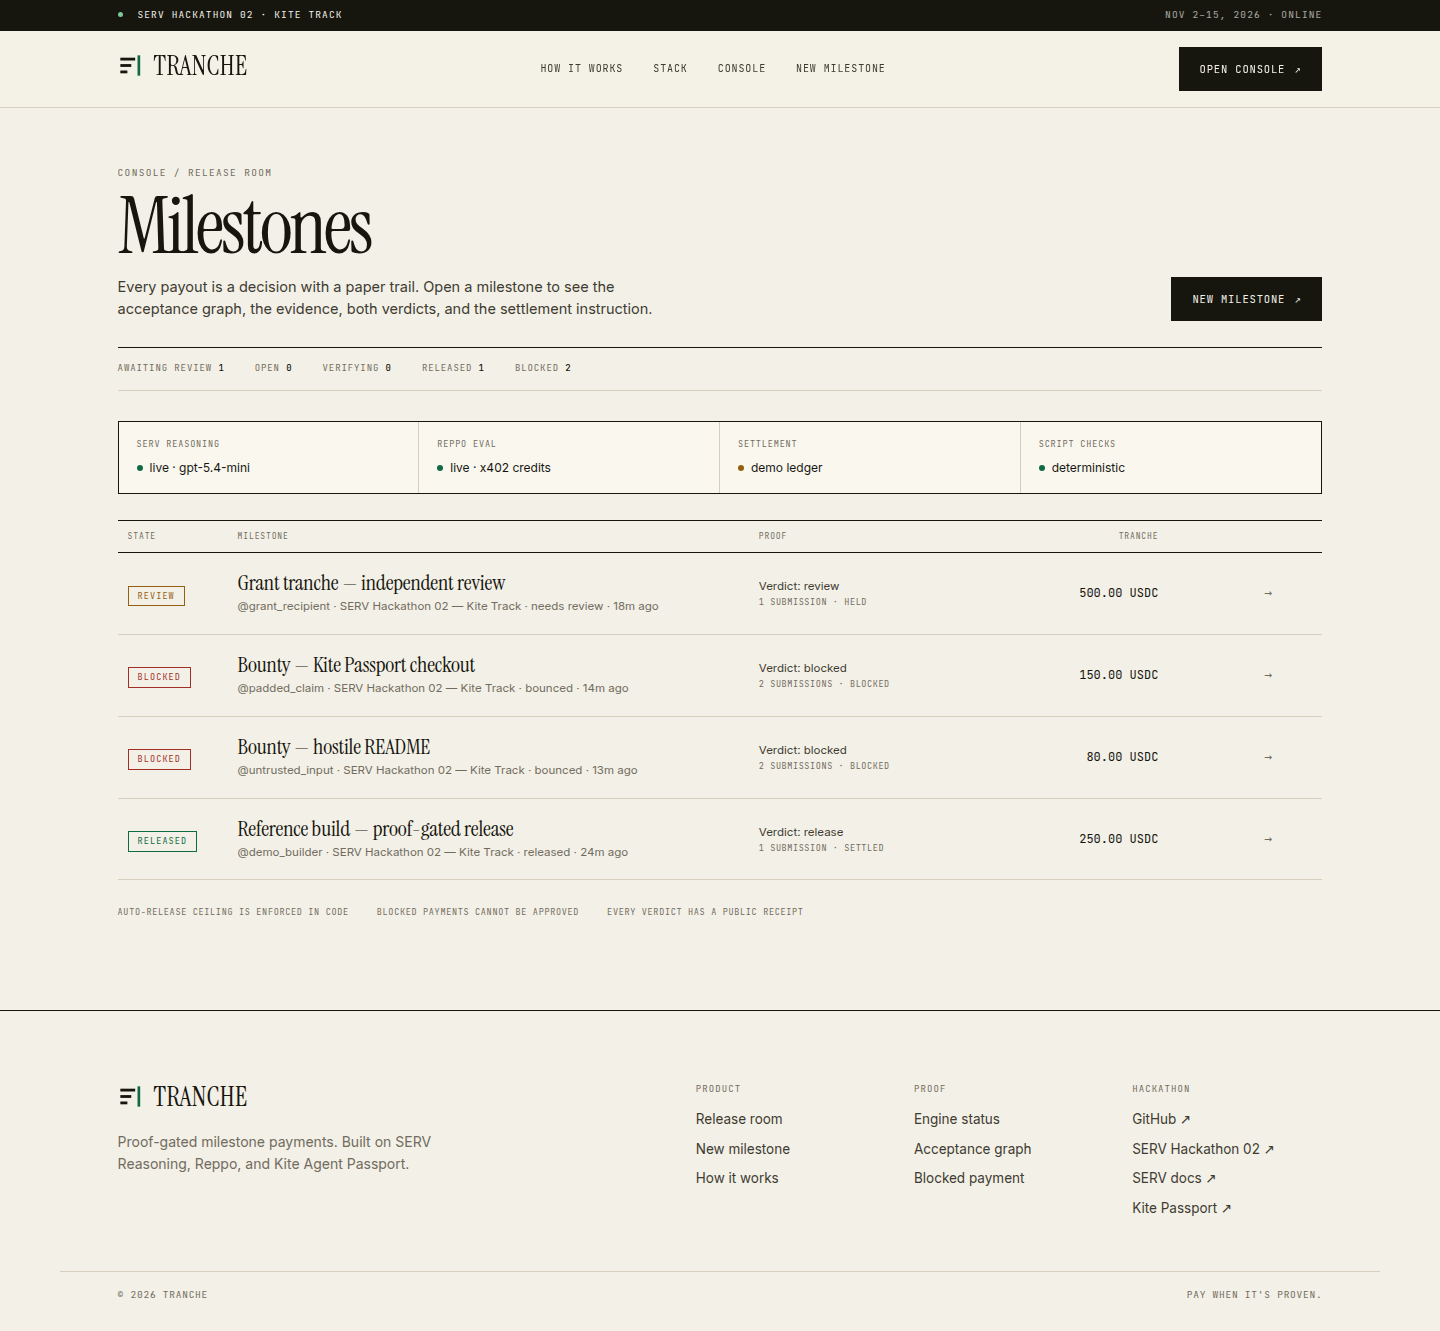
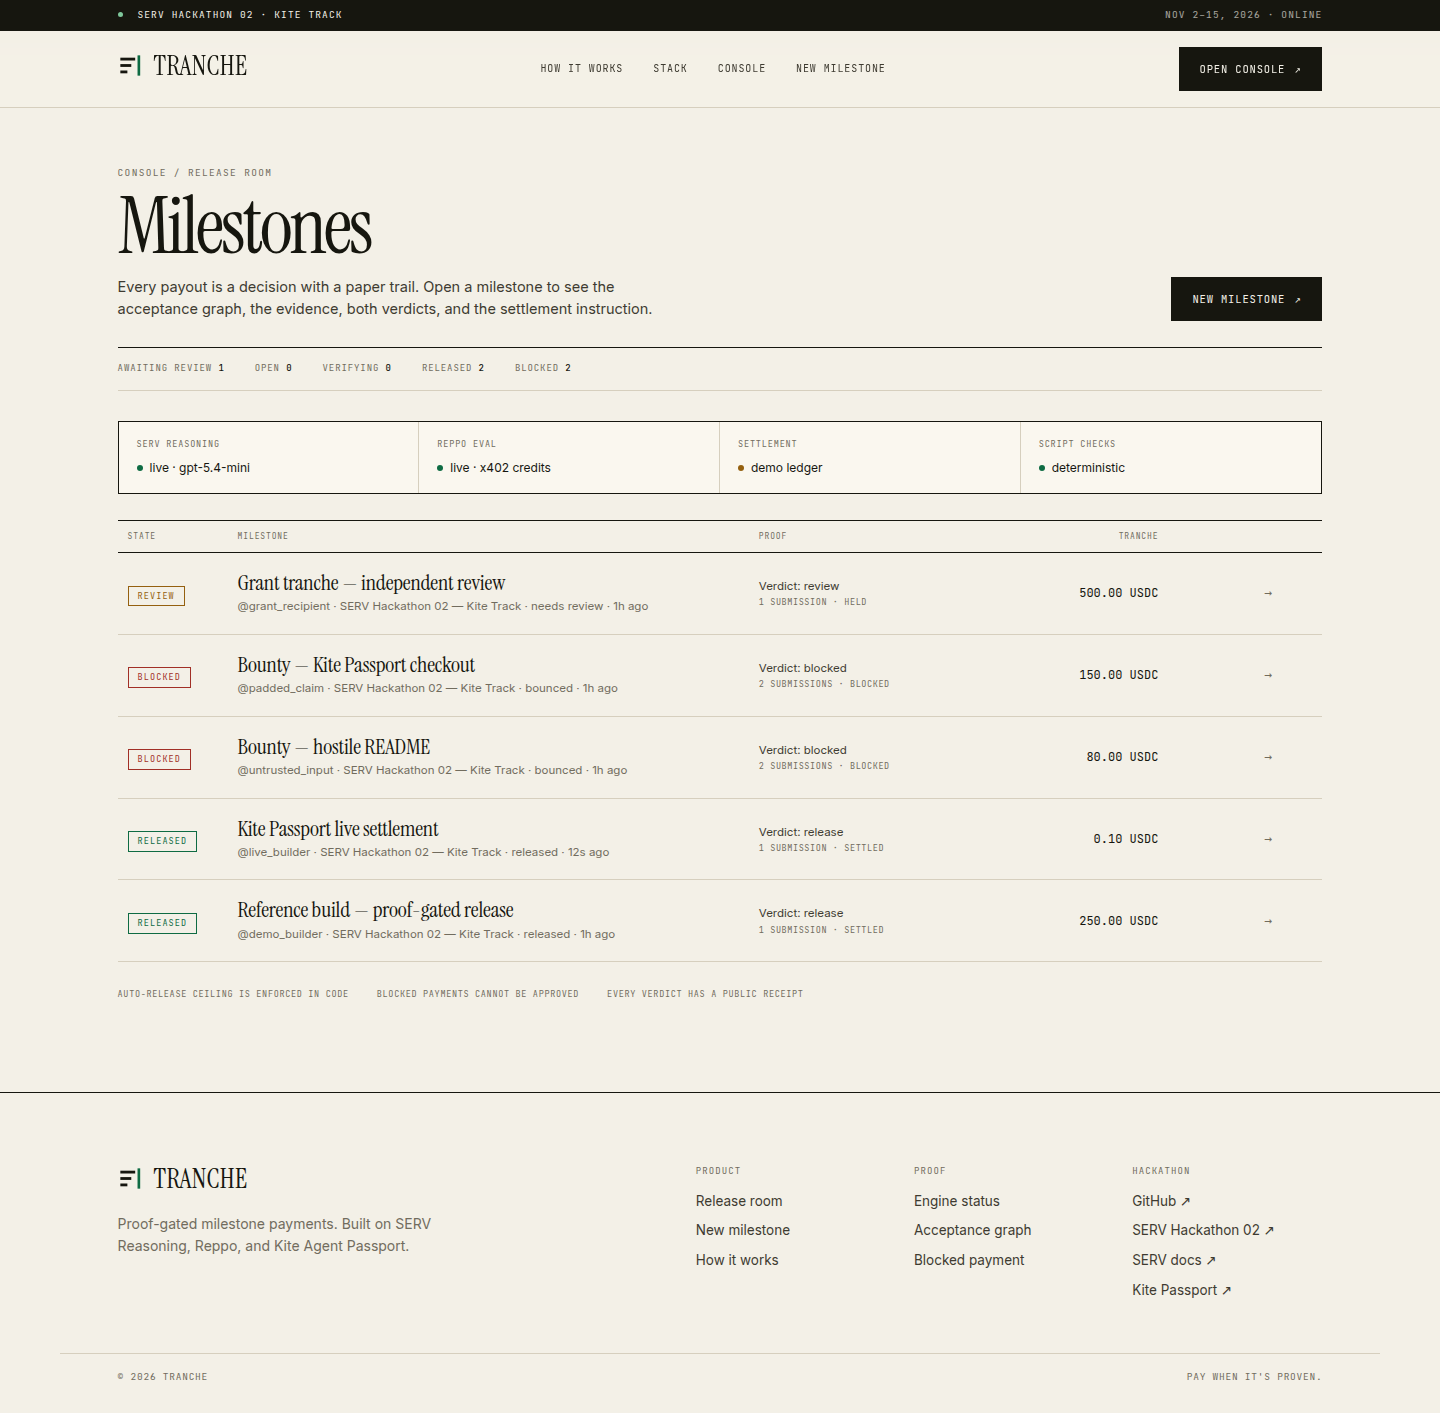
Show the historical payment rail on milestone pages; idempotent status polling

diff --git a/frontend/components/EngineStrip.tsx b/frontend/components/EngineStrip.tsx
@@ -10,7 +10,7 @@ function Dot({ tone }: { tone: Dot }) {
   return <span className={`dot dot-${tone}`} aria-hidden="true" />;
 }
 
-export function EngineStrip() {
+export function EngineStrip({ paymentRail }: { paymentRail?: string }) {
   const [health, setHealth] = useState<HealthResponse | null>(null);
   const [failed, setFailed] = useState(false);
 
@@ -29,6 +29,7 @@ export function EngineStrip() {
   }, []);
 
   const engines = health?.engines;
+  const rail = paymentRail ?? engines?.payment_rail;
 
   return (
     <div className="engine-strip" aria-live="polite">
@@ -74,7 +75,7 @@ export function EngineStrip() {
               failed
                 ? "off"
                 : engines
-                  ? engines.payment_rail === "kite_passport"
+                  ? rail === "kite_passport"
                     ? "live"
                     : "warn"
                   : "warn"
@@ -83,7 +84,7 @@ export function EngineStrip() {
           {failed
             ? "API offline"
             : engines
-              ? engines.payment_rail === "kite_passport"
+              ? rail === "kite_passport"
                 ? "Kite Passport"
                 : "demo ledger"
               : "checking"}

diff --git a/frontend/app/milestone/page.tsx b/frontend/app/milestone/page.tsx
@@ -798,7 +798,7 @@ function MilestoneInner() {
         </div>
 
         <div style={{ marginTop: "24px" }}>
-          <EngineStrip />
+          <EngineStrip paymentRail={detail?.engines.payment_rail} />
         </div>
       </div>
     </div>

diff --git a/backend/src/api.rs b/backend/src/api.rs
@@ -834,6 +834,7 @@ pub async fn kite_status(
             "No Kite approval request id is stored for this payment.",
         ));
     };
+    let previous_status = payment.status.clone();
     let settlement = crate::payments::poll_status(&state.cfg.kite, request_id).await;
     sqlx::query(
         "UPDATE payments SET status = ?, tx_ref = ?, explorer_url = ?, session_ref = ?, approval_url = ?, note = ? WHERE id = ?",
@@ -864,15 +865,17 @@ pub async fn kite_status(
         executor::ensure_receipt(&state, &payment.submission_id, &milestone.id)
             .await
             .map_err(internal)?;
-        store::add_event(
-            &state.pool,
-            &milestone.id,
-            "payment_released",
-            "Kite Passport approval completed; funds settled.",
-        )
-        .await
-        .map_err(internal)?;
-    } else if settlement.status == "failed" {
+        if previous_status != "settled" {
+            store::add_event(
+                &state.pool,
+                &milestone.id,
+                "payment_released",
+                "Kite Passport approval completed; funds settled.",
+            )
+            .await
+            .map_err(internal)?;
+        }
+    } else if settlement.status == "failed" && previous_status != "failed" {
         store::set_state(&state.pool, &milestone.id, "needs_review")
             .await
             .map_err(internal)?;

diff --git a/GOAL.md b/GOAL.md
@@ -60,8 +60,8 @@ Submissions close **2026-11-15 23:59 UTC**. Build period started 2026-11-02.
 - [x] Rust backend (Axum, SQLx, SQLite) + 24 tests
 - [x] Next.js frontend + static export served by the Rust binary
 - [x] SERV Reasoning live integration (PromptGuard, Shadow Agent, structured verdict)
-- [x] Reppo Evaluation API integration (labeled sandbox in the public demo)
-- [x] Kite Passport payout adapter + labeled demo ledger
+- [x] Reppo Evaluation API integration (live on the public demo)
+- [x] Kite Passport payout adapter, a live 0.10 USDC Base settlement, and a labeled self-serve ledger
 - [x] Seeded demo: release, blocked, injection, over-ceiling
 - [x] Public proof receipts + live deployed demo
 - [x] README, architecture/lifecycle diagrams, security model, screenshots

diff --git a/docs/SECURITY.md b/docs/SECURITY.md
@@ -111,7 +111,9 @@ token and a funded, least-privilege wallet.
 - No cryptographic builder identity.
 - No multi-tenant authorization model.
 - No formal verification of the policy engine.
-- The demo ledger is not an on-chain settlement.
+- The self-serve demo ledger is not an on-chain settlement. The Kite proof
+  receipt is a real Base transaction; that does not imply every demo release is
+  on-chain.
 
 ## Reporting
 
